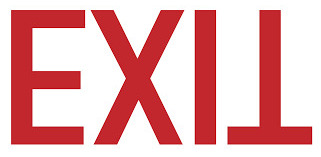
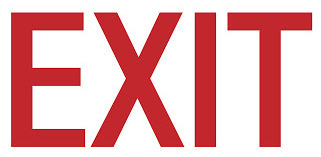
Started work on FilePanel.
Wrote a couple of bash scripts to make it easier to create consistent icon
images for ImagePane buttons. Also use the flip_vertically parameter when
reading images so that the images can be oriented correctly.

diff --git a/src/Panels/FilePanel.h b/src/Panels/FilePanel.h
@@ -1,0 +1,22 @@
+#pragma once
+
+#include <string>
+
+#include "Panels/Panel.h"
+
+namespace Parser { class Registry; }
+
+/// FilePanel is a derived Panel class that allows the user to select a file or
+/// directory.
+class FilePanel : public Panel {
+  protected:
+    FilePanel() {}
+
+    virtual void InitInterface() override;
+    virtual void UpdateInterface() override;
+
+  private:
+    friend class Parser::Registry;
+};
+
+typedef std::shared_ptr<FilePanel> FilePanelPtr;

diff --git a/src/Util/Read.cpp b/src/Util/Read.cpp
@@ -66,8 +66,10 @@ ion::gfx::ImagePtr ReadImage(const FilePath &path) {
     std::string data;
     ion::gfx::ImagePtr image;
     if (ReadFile(path, data)) {
+        const bool flip_vertically = true;
         image = ion::image::ConvertFromExternalImageData(
-            data.data(), data.size(), false, false, ion::base::AllocatorPtr());
+            data.data(), data.size(), flip_vertically, false,
+            ion::base::AllocatorPtr());
     }
     return image;
 }

diff --git a/src/RegisterTypes.cpp b/src/RegisterTypes.cpp
@@ -20,6 +20,7 @@
 #include "Models/RevSurfModel.h"
 #include "Models/SphereModel.h"
 #include "Models/TorusModel.h"
+#include "Panels/FilePanel.h"
 #include "Panels/HelpPanel.h"
 #include "Panels/SessionPanel.h"
 #include "Panels/SettingsPanel.h"
@@ -126,6 +127,7 @@ static void RegisterPaneTypes_() {
 }
 
 static void RegisterPanelTypes_() {
+    ADD_TYPE_(FilePanel);
     ADD_TYPE_(HelpPanel);
     ADD_TYPE_(SessionPanel);
     ADD_TYPE_(SettingsPanel);

diff --git a/src/Application.cpp b/src/Application.cpp
@@ -842,6 +842,7 @@ void Application::Impl_::ShowInitialPanel_() {
     // XXXX Can use these for testing ...
     //action_manager_->ApplyAction(Action::kOpenSettingsPanel); // XXXX
     //panel_manager_->OpenPanel("TestPanel"); // XXXX
+    //panel_manager_->OpenPanel("FilePanel"); // XXXX
 }
 
 void Application::Impl_::SelectionChanged_(const Selection &sel,

diff --git a/src/Managers/PanelManager.cpp b/src/Managers/PanelManager.cpp
@@ -23,6 +23,7 @@ void PanelManager::FindPanels(const SG::Scene &scene,
         panel_map_[name] = panel;
     };
 
+    add_panel("FilePanel");
     add_panel("HelpPanel");
     add_panel("SessionPanel");
     add_panel("SettingsPanel");

diff --git a/src/Panels/FilePanel.cpp b/src/Panels/FilePanel.cpp
@@ -1,0 +1,9 @@
+#include "Panels/FilePanel.h"
+
+void FilePanel::InitInterface() {
+    // XXXX
+}
+
+void FilePanel::UpdateInterface() {
+    // XXXX
+}
